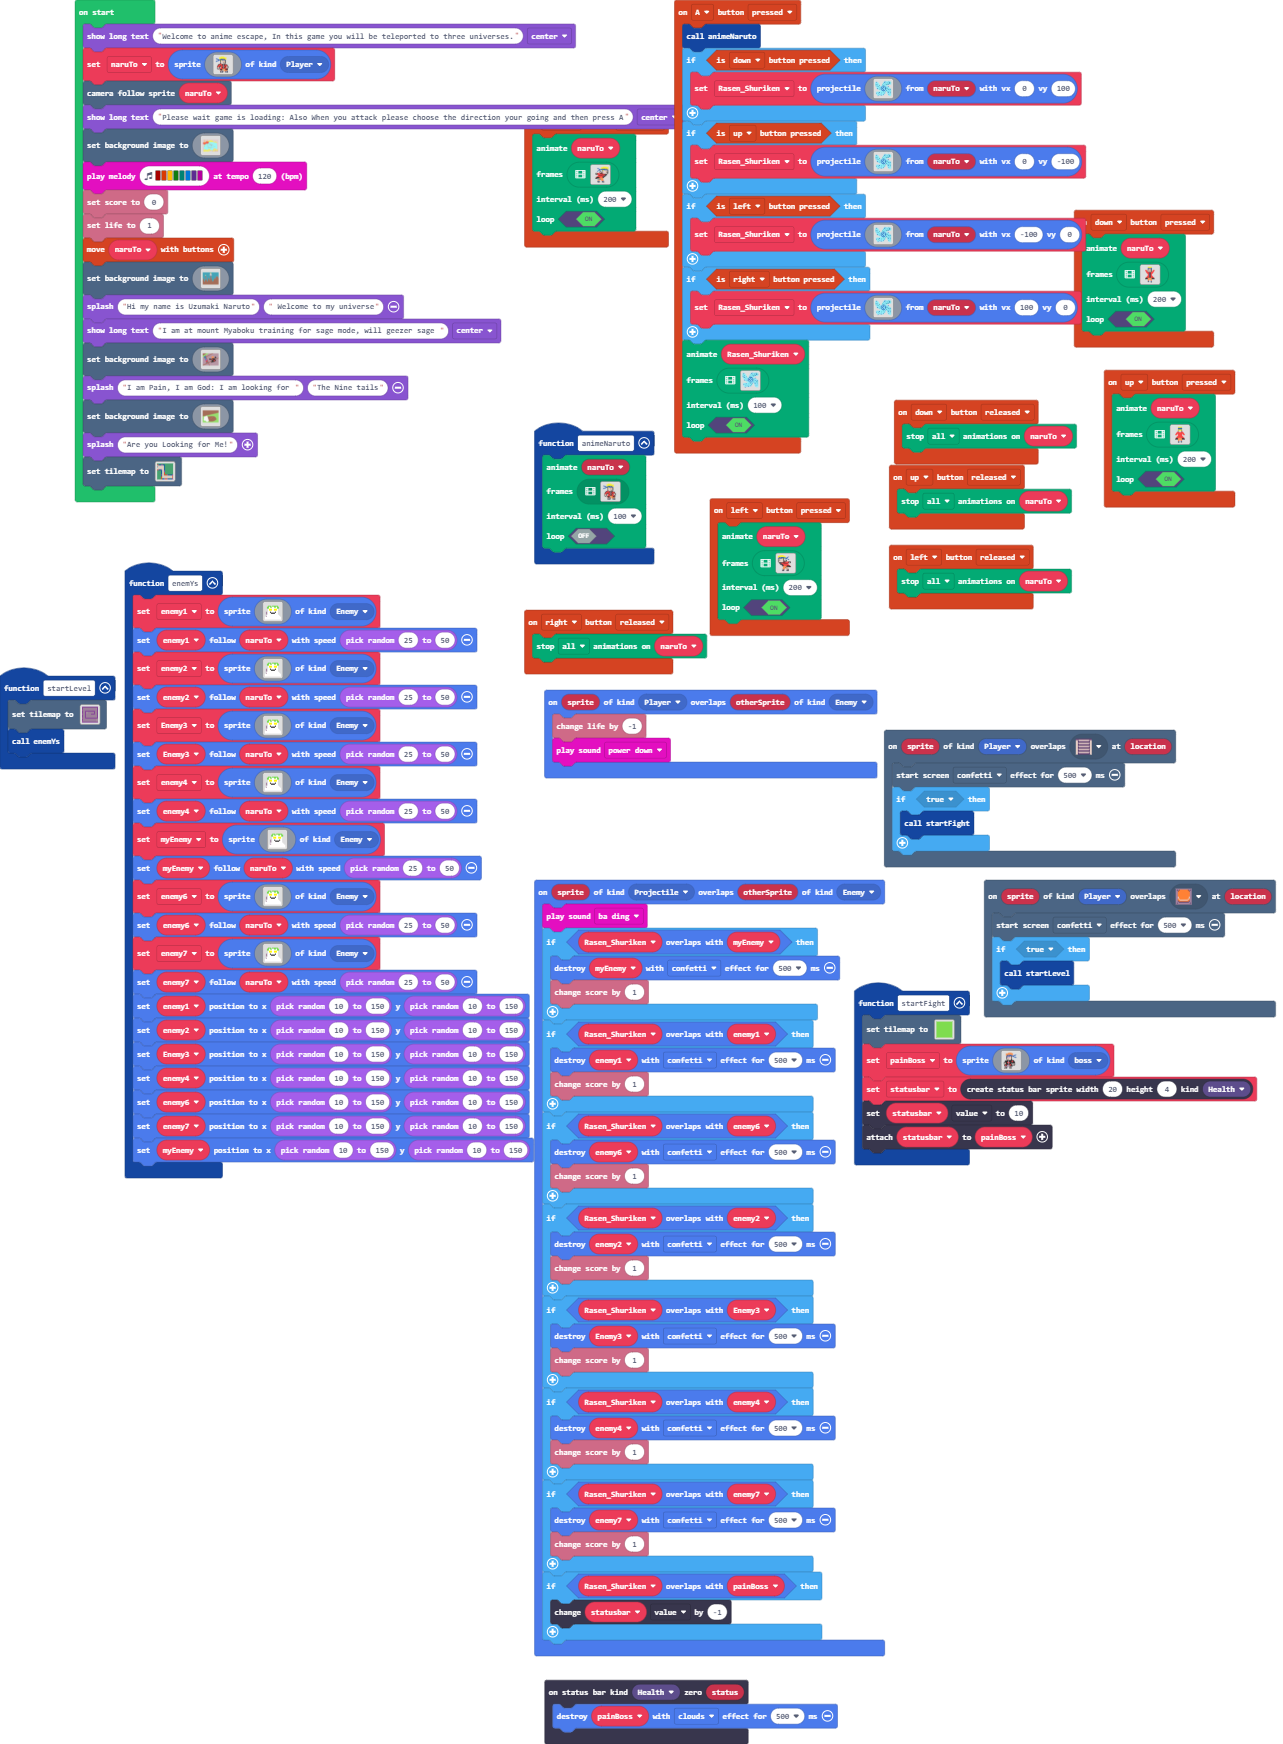
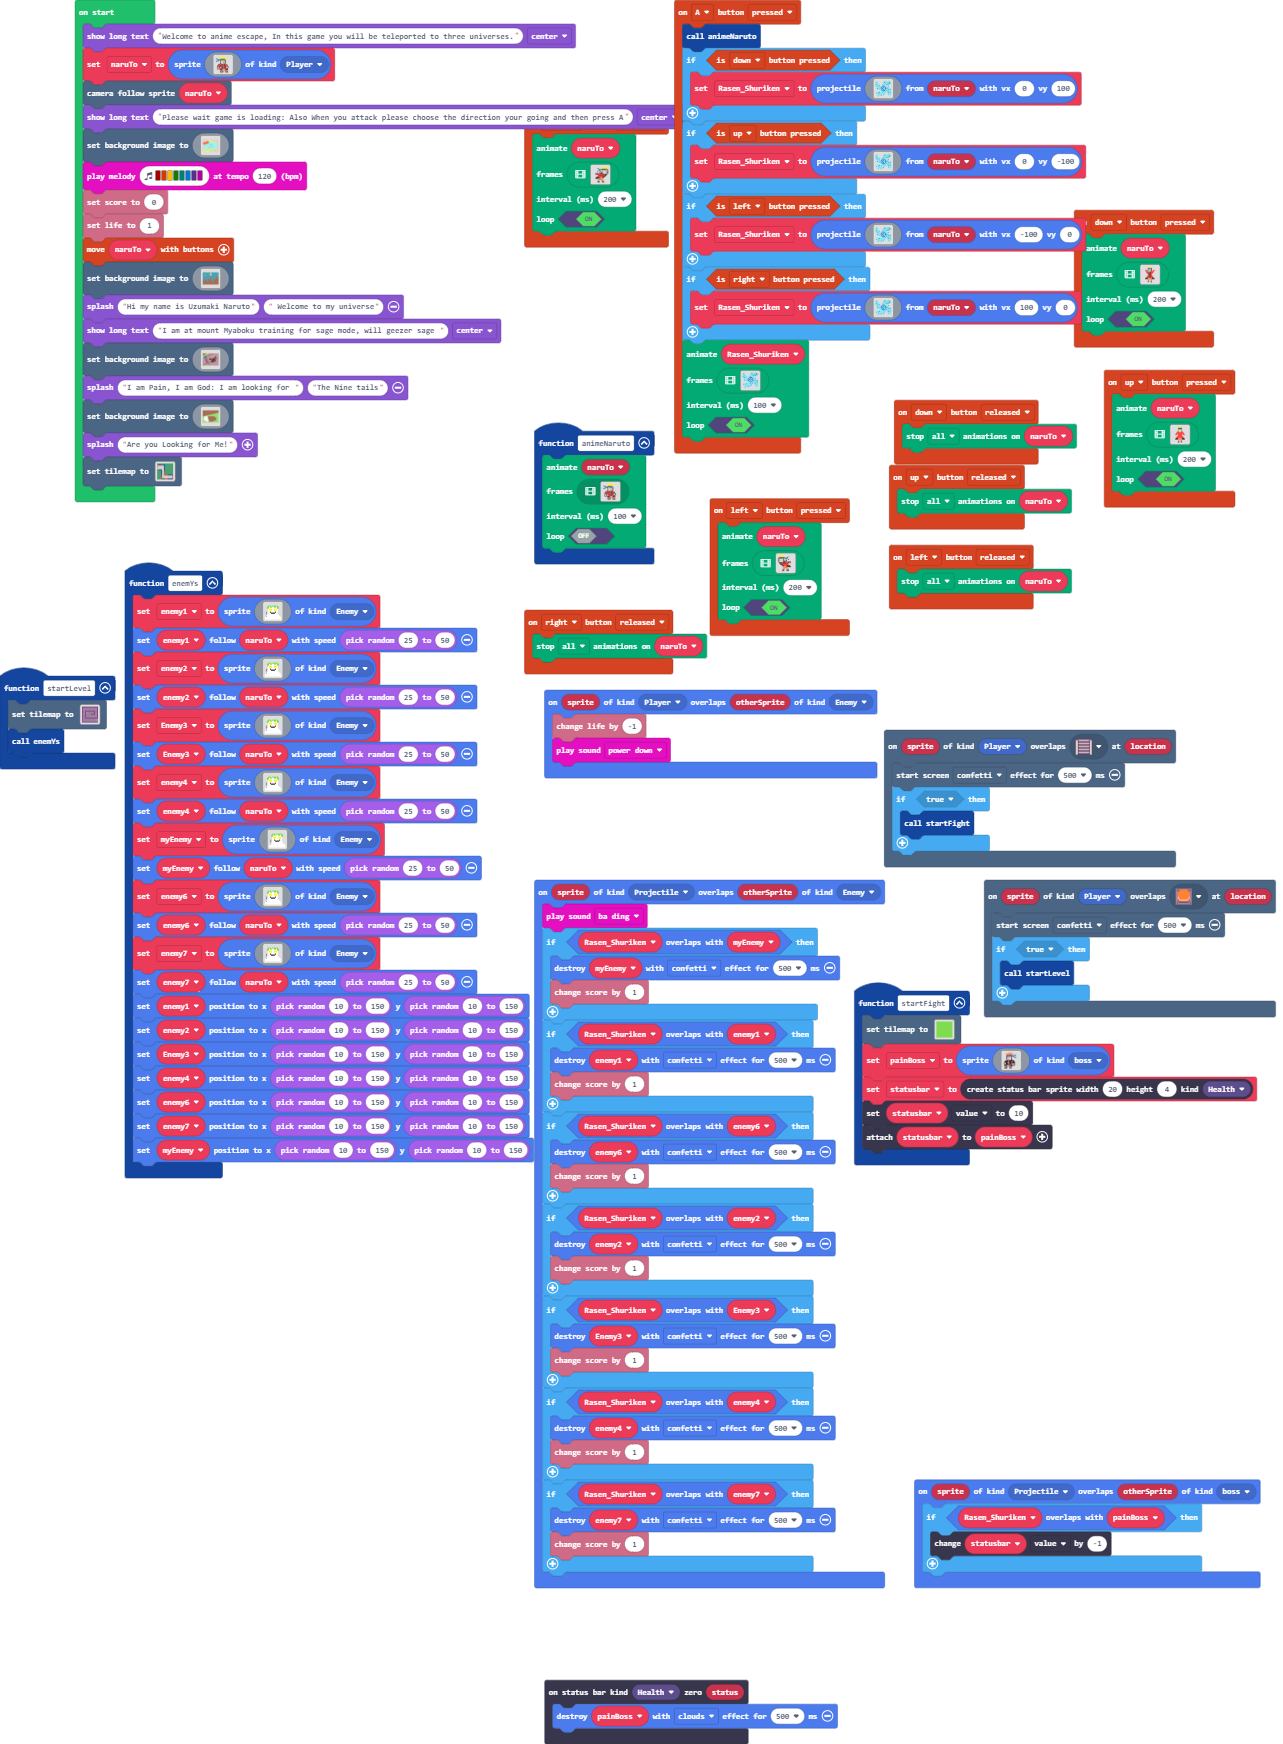
Update main.blocks, main.ts

Changed region(s): [[0.4053, 0.836, 0.9977, 0.9599]]

diff --git a/main.ts b/main.ts
@@ -226,6 +226,11 @@ controller.down.onEvent(ControllerButtonEvent.Pressed, function () {
     true
     )
 })
+sprites.onOverlap(SpriteKind.Projectile, SpriteKind.boss, function (sprite, otherSprite) {
+    if (Rasen_Shuriken.overlapsWith(painBoss)) {
+        statusbar.value += -1
+    }
+})
 scene.onOverlapTile(SpriteKind.Player, sprites.dungeon.buttonOrange, function (sprite, location) {
     effects.confetti.startScreenEffect(500)
     if (true) {
@@ -265,9 +270,6 @@ sprites.onOverlap(SpriteKind.Projectile, SpriteKind.Enemy, function (sprite, oth
     if (Rasen_Shuriken.overlapsWith(enemy7)) {
         enemy7.destroy(effects.confetti, 500)
         info.changeScoreBy(1)
-    }
-    if (Rasen_Shuriken.overlapsWith(painBoss)) {
-        statusbar.value += -1
     }
 })
 scene.onOverlapTile(SpriteKind.Player, sprites.dungeon.stairSouth, function (sprite, location) {
